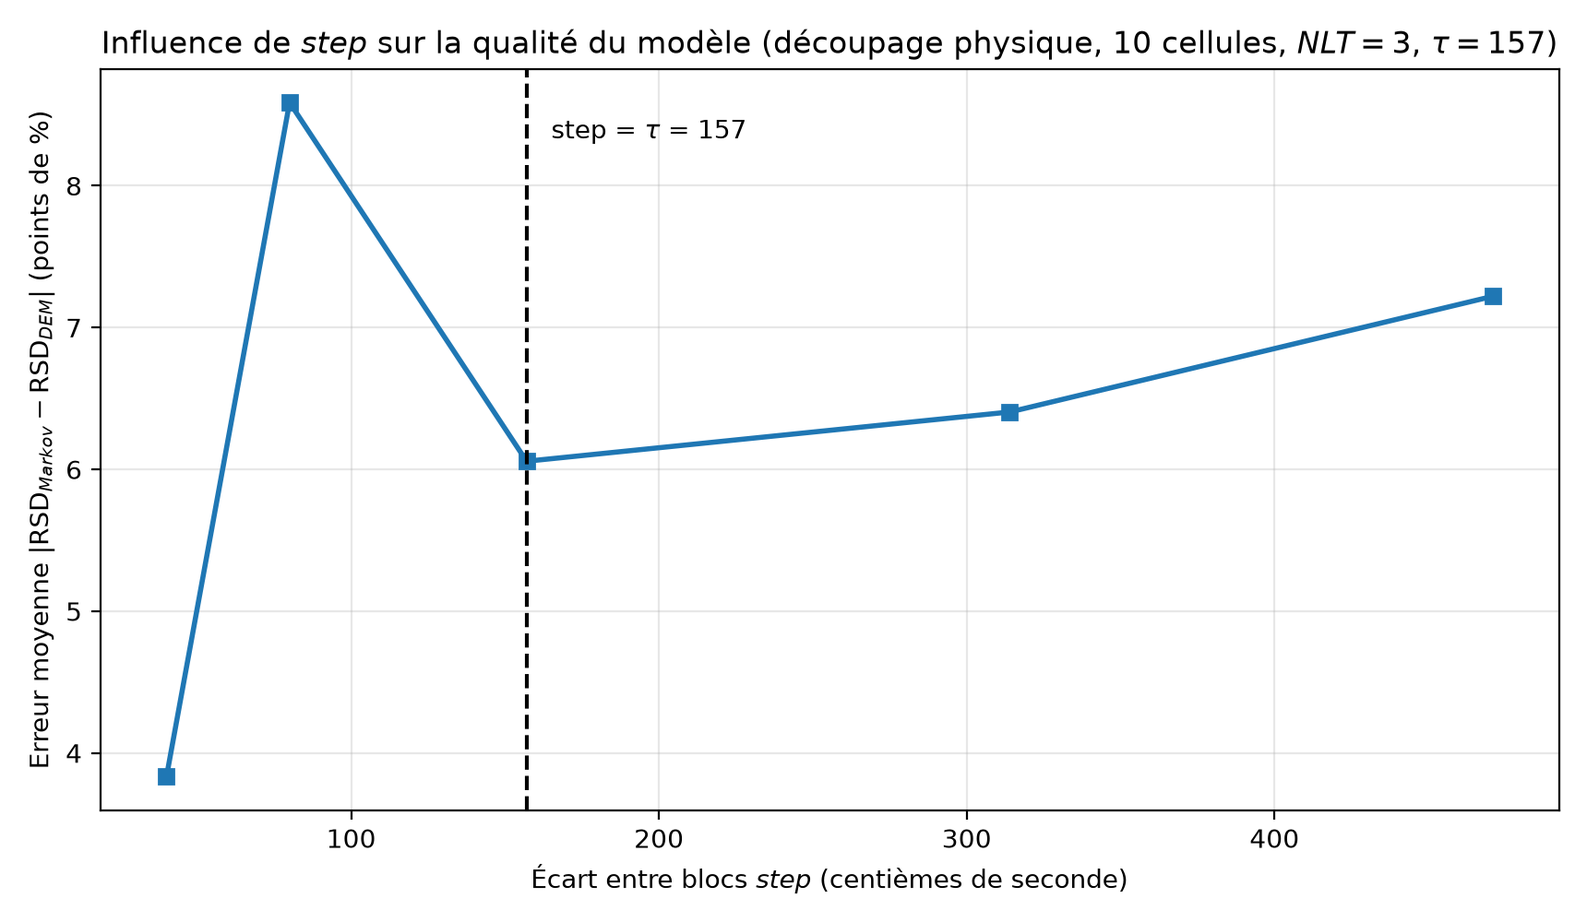
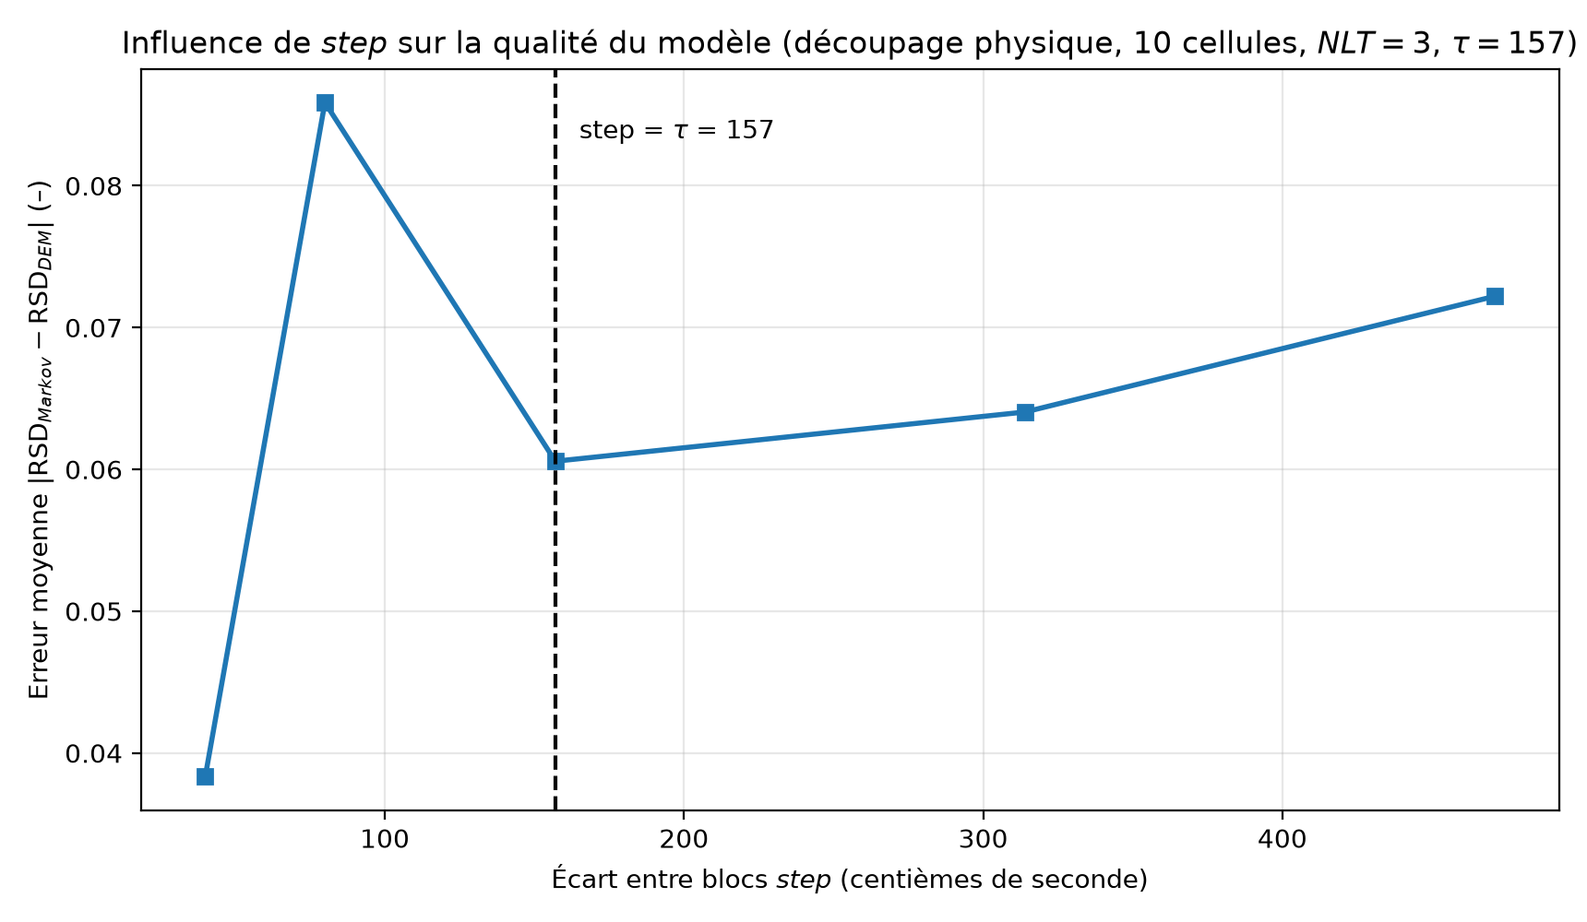
RSD exprimé en valeur adimensionnelle (nombre) au lieu de pourcentage : toutes les figures régénérées via la chaîne complète (extract_compact -> schémas -> études), textes et tableaux du rapport mis à jour

diff --git a/template-rapport-stage/main.tex b/template-rapport-stage/main.tex
@@ -755,7 +755,7 @@ Les matrices de transition construites par espèce pour un découpage cylindriqu
   \label{fig:matrice_cylindrique}
 \end{figure}
 
-La confrontation de la prédiction markovienne à la référence DEM (figure~\ref{fig:rsd_cylindrique}) révèle toutefois la limite de ce maillage pour l'étude de la ségrégation : le RSD de la teneur en petites particules prédit par la chaîne homogène se fige dès les premiers pas autour de sa valeur de point fixe ($\approx 49\,\%$), et la chaîne inhomogène, si elle réintroduit une légère variabilité en début de prédiction, converge elle aussi vers un palier ($\approx 53\,\%$) : aucune des deux ne restitue le niveau moyen élevé ni les larges fluctuations du RSD DEM (60 à 100\,\%). La raison est géométrique : les cellules cylindriques, solidaires de la symétrie de révolution, tournent « avec » l'écoulement moyen et ne séparent ni la zone active de la zone passive, ni les zones enrichies des zones appauvries en petites particules --- l'information de ségrégation est moyennée à l'intérieur de chaque cellule, et la projection markovienne lisse d'autant plus vite les contrastes résiduels. Ce constat, quantifié à la section~\ref{subsec:comparaison_methodes}, illustre que le respect de la géométrie de l'enceinte ne suffit pas : c'est l'adéquation du maillage à la structure de l'écoulement qui gouverne la qualité du modèle.
+La confrontation de la prédiction markovienne à la référence DEM (figure~\ref{fig:rsd_cylindrique}) révèle toutefois la limite de ce maillage pour l'étude de la ségrégation : le RSD de la teneur en petites particules prédit par la chaîne homogène se fige dès les premiers pas autour de sa valeur de point fixe ($\approx 0{,}49$), et la chaîne inhomogène, si elle réintroduit une légère variabilité en début de prédiction, converge elle aussi vers un palier ($\approx 0{,}53$) : aucune des deux ne restitue le niveau moyen élevé ni les larges fluctuations du RSD DEM (0{,}6 à 1{,}0). La raison est géométrique : les cellules cylindriques, solidaires de la symétrie de révolution, tournent « avec » l'écoulement moyen et ne séparent ni la zone active de la zone passive, ni les zones enrichies des zones appauvries en petites particules --- l'information de ségrégation est moyennée à l'intérieur de chaque cellule, et la projection markovienne lisse d'autant plus vite les contrastes résiduels. Ce constat, quantifié à la section~\ref{subsec:comparaison_methodes}, illustre que le respect de la géométrie de l'enceinte ne suffit pas : c'est l'adéquation du maillage à la structure de l'écoulement qui gouverne la qualité du modèle.
 
 \begin{figure}[H]
   \centering
@@ -845,7 +845,7 @@ En intégrant la norme de la vitesse dans le critère de partitionnement, les ce
 \subsubsection{Comparaison des méthodes}
 \label{subsec:comparaison_methodes}
 
-La figure~\ref{fig:comparaison_methodes_rsd} confronte, pour les quatre méthodes de découpage à \textbf{nombre de cellules identique} (10 cellules chacune : cartésien $5 \times 2 \times 1$, cylindrique $n_r = 2$, $n_\theta = 5$, Voronoï et physique $K = 10$) et à paramètres d'apprentissage identiques ($\tau = 157$, deux blocs), le RSD de la teneur en petites particules prédit par la chaîne homogène à la référence DEM. Cette égalité de résolution garantit que les écarts observés proviennent bien de la \textit{forme} des cellules --- c'est-à-dire de la méthode de découpage --- et non d'une différence de finesse de maillage, chaque cellule contenant en moyenne une centaine de particules dans les quatre cas. L'écart moyen $|\mathrm{RSD}_{\text{Markov}} - \mathrm{RSD}_{\text{DEM}}|$ sur toute la fenêtre de prédiction est reporté dans chaque cadran et synthétisé au tableau~\ref{tab:ecart_rsd_methodes}. La hiérarchie est nette : le découpage physique (6,4 points d'écart) et le découpage de Voronoï (10,2 points) suivent correctement le niveau d'homogénéisation atteint par la DEM, tandis que les maillages géométriques --- cartésien (21,4 points) et cylindrique (26,7 points) --- s'en écartent durablement, leurs cellules moyennant des zones de dynamiques hétérogènes.
+La figure~\ref{fig:comparaison_methodes_rsd} confronte, pour les quatre méthodes de découpage à \textbf{nombre de cellules identique} (10 cellules chacune : cartésien $5 \times 2 \times 1$, cylindrique $n_r = 2$, $n_\theta = 5$, Voronoï et physique $K = 10$) et à paramètres d'apprentissage identiques ($\tau = 157$, deux blocs), le RSD de la teneur en petites particules prédit par la chaîne homogène à la référence DEM. Cette égalité de résolution garantit que les écarts observés proviennent bien de la \textit{forme} des cellules --- c'est-à-dire de la méthode de découpage --- et non d'une différence de finesse de maillage, chaque cellule contenant en moyenne une centaine de particules dans les quatre cas. L'écart moyen $|\mathrm{RSD}_{\text{Markov}} - \mathrm{RSD}_{\text{DEM}}|$ sur toute la fenêtre de prédiction est reporté dans chaque cadran et synthétisé au tableau~\ref{tab:ecart_rsd_methodes}. La hiérarchie est nette : le découpage physique (écart moyen de 0{,}064) et le découpage de Voronoï (0{,}102) suivent correctement le niveau d'homogénéisation atteint par la DEM, tandis que les maillages géométriques --- cartésien (0{,}214) et cylindrique (0{,}267) --- s'en écartent durablement, leurs cellules moyennant des zones de dynamiques hétérogènes.
 
 \begin{figure}[H]
   \centering
@@ -856,13 +856,13 @@ La figure~\ref{fig:comparaison_methodes_rsd} confronte, pour les quatre méthode
 
 \begin{table}[H]
   \centering
-  \caption{Écart moyen $|\mathrm{RSD}_{\text{Markov}} - \mathrm{RSD}_{\text{DEM}}|$ (en points de \%) sur la fenêtre de prédiction, par méthode de découpage à nombre de cellules identique (10 cellules, chaîne homogène, $\tau = 157$).}
+  \caption{Écart moyen $|\mathrm{RSD}_{\text{Markov}} - \mathrm{RSD}_{\text{DEM}}|$ (adimensionnel) sur la fenêtre de prédiction, par méthode de découpage à nombre de cellules identique (10 cellules, chaîne homogène, $\tau = 157$).}
   \label{tab:ecart_rsd_methodes}
   \begin{tabular}{lcccc}
     \toprule
     & Cartésien & Cylindrique & Voronoï & Physique\\
     \midrule
-    Écart moyen (pts) & 21{,}4 & 26{,}7 & 10{,}2 & \textbf{6{,}4}\\
+    Écart moyen (--) & 0{,}214 & 0{,}267 & 0{,}102 & \textbf{0{,}064}\\
     \bottomrule
   \end{tabular}
 \end{table}
@@ -952,7 +952,7 @@ Ce mémoire a proposé et évalué une modélisation stochastique par chaînes d
 
 \begin{itemize}
   \item La construction de matrices de transition distinctes par espèce met en évidence des dynamiques contrastées entre petites et grandes particules.
-  \item Le choix de la discrétisation spatiale conditionne fortement la fidélité du modèle : à nombre de cellules identique, les maillages statistiques (Voronoï, physique) surpassent nettement les maillages géométriques en termes d'erreur de prédiction (6,4 et 10,2 points d'écart de RSD contre 21,4 pour le cartésien et 26,7 pour le cylindrique) ; le cas cylindrique montre que le respect de la géométrie de l'enceinte ne garantit pas la pertinence du maillage vis-à-vis de la ségrégation.
+  \item Le choix de la discrétisation spatiale conditionne fortement la fidélité du modèle : à nombre de cellules identique, les maillages statistiques (Voronoï, physique) surpassent nettement les maillages géométriques en termes d'erreur de prédiction (écarts moyens de RSD de 0{,}064 et 0{,}102 contre 0{,}214 pour le cartésien et 0{,}267 pour le cylindrique) ; le cas cylindrique montre que le respect de la géométrie de l'enceinte ne garantit pas la pertinence du maillage vis-à-vis de la ségrégation.
   \item Un vecteur d'état fondé sur la teneur locale en petites particules discrimine la ségrégation bien mieux qu'un simple comptage.
   \item Les chaînes inhomogènes, en actualisant les probabilités à chaque pas, suivent plus fidèlement l'évolution DEM que les chaînes homogènes, en particulier durant les régimes transitoires.
 \end{itemize}
@@ -1039,7 +1039,7 @@ Ce choix répond à un double impératif. D'une part, $\tau$ doit être suffisam
 
 Le paramètre $NLT$ contrôle le nombre de blocs d'apprentissage sur lesquels les probabilités de transition sont observées, puis moyennées (chaîne homogène) ou conservées séparément (chaîne inhomogène).
 
-L'étude de sensibilité menée sur les données DEM (figure~\ref{fig:etude_nlt_courbe}) balaie $NLT$ de 1 à 18 (découpage physique, 10 cellules, $\tau = step = 157$) et mesure pour chaque valeur l'erreur moyenne $|\mathrm{RSD}_{\text{Markov}} - \mathrm{RSD}_{\text{DEM}}|$ sur toute la fenêtre de prédiction. Deux régimes apparaissent : pour les petites valeurs ($NLT = 2$ à $5$), l'erreur fluctue entre 6 et 6,6 points --- chaque bloc supplémentaire modifie sensiblement la matrice moyenne, signe que la statistique n'est pas encore stabilisée --- puis, à partir de $NLT \gtrsim 8$, l'erreur décroît de façon monotone (5,6 points à $NLT = 8$, 4,7 points à $NLT = 18$) : la moyenne sur de nombreux blocs gomme le bruit statistique de l'apprentissage et la matrice converge vers la dynamique moyenne du régime permanent. On note que $NLT = 1$ peut ponctuellement donner une erreur faible : la matrice épouse alors la configuration particulière de son unique tour d'apprentissage, mais sans garantie de robustesse --- ce résultat dépend fortement du tour choisi, comme le confirme la sensibilité au paramètre $start$ (annexe~\ref{annexe:start}).
+L'étude de sensibilité menée sur les données DEM (figure~\ref{fig:etude_nlt_courbe}) balaie $NLT$ de 1 à 18 (découpage physique, 10 cellules, $\tau = step = 157$) et mesure pour chaque valeur l'erreur moyenne $|\mathrm{RSD}_{\text{Markov}} - \mathrm{RSD}_{\text{DEM}}|$ sur toute la fenêtre de prédiction. Deux régimes apparaissent : pour les petites valeurs ($NLT = 2$ à $5$), l'erreur fluctue entre 0{,}060 et 0{,}066 --- chaque bloc supplémentaire modifie sensiblement la matrice moyenne, signe que la statistique n'est pas encore stabilisée --- puis, à partir de $NLT \gtrsim 8$, l'erreur décroît de façon monotone (0{,}056 à $NLT = 8$, 0{,}047 à $NLT = 18$) : la moyenne sur de nombreux blocs gomme le bruit statistique de l'apprentissage et la matrice converge vers la dynamique moyenne du régime permanent. On note que $NLT = 1$ peut ponctuellement donner une erreur faible : la matrice épouse alors la configuration particulière de son unique tour d'apprentissage, mais sans garantie de robustesse --- ce résultat dépend fortement du tour choisi, comme le confirme la sensibilité au paramètre $start$ (annexe~\ref{annexe:start}).
 
 \begin{figure}[H]
   \centering
@@ -1092,7 +1092,7 @@ En contrepartie, augmenter $NLT$ allonge la fenêtre temporelle mobilisée par l
 \subsection{Choix de l'instant de départ \texorpdfstring{$start = 157$}{start = 157}}
 \label{annexe:start}
 
-Le paramètre $start$ fixe le premier instant DEM utilisé pour la phase d'apprentissage --- et, par voie de conséquence, l'instant initial de la prédiction. Le début de simulation correspond au régime transitoire de mise en mouvement du lit. La figure~\ref{fig:etude_start_rsd}, calculée sur les données DEM, montre le RSD de la teneur en petites particules durant les 12 premières secondes pour les quatre méthodes de découpage : quelle que soit la méthode, le RSD part de valeurs très élevées (90 à 110 \%, configuration initiale séparée), culmine durant la mise en mouvement du lit (jusqu'à 120 \% pour les maillages géométriques), puis amorce sa décroissance vers le palier du régime établi. La ligne verticale $start = 157$ --- un tour de tambour --- marque la fin de cette phase transitoire : au-delà, la décroissance du RSD est engagée pour les quatre découpages et les probabilités de transition observées deviennent représentatives du mélange établi. Apprendre les probabilités sur la zone grisée (régime transitoire) biaiserait la matrice, qui encoderait une dynamique de démarrage non représentative. Le tableau~\ref{tab:etude_start_rsd} donne les valeurs du RSD à quelques instants clefs.
+Le paramètre $start$ fixe le premier instant DEM utilisé pour la phase d'apprentissage --- et, par voie de conséquence, l'instant initial de la prédiction. Le début de simulation correspond au régime transitoire de mise en mouvement du lit. La figure~\ref{fig:etude_start_rsd}, calculée sur les données DEM, montre le RSD de la teneur en petites particules durant les 12 premières secondes pour les quatre méthodes de découpage : quelle que soit la méthode, le RSD part de valeurs très élevées (0{,}9 à 1{,}1, configuration initiale séparée), culmine durant la mise en mouvement du lit (jusqu'à 1{,}2 pour les maillages géométriques), puis amorce sa décroissance vers le palier du régime établi. La ligne verticale $start = 157$ --- un tour de tambour --- marque la fin de cette phase transitoire : au-delà, la décroissance du RSD est engagée pour les quatre découpages et les probabilités de transition observées deviennent représentatives du mélange établi. Apprendre les probabilités sur la zone grisée (régime transitoire) biaiserait la matrice, qui encoderait une dynamique de démarrage non représentative. Le tableau~\ref{tab:etude_start_rsd} donne les valeurs du RSD à quelques instants clefs.
 
 \begin{figure}[H]
   \centering
@@ -1103,16 +1103,16 @@ Le paramètre $start$ fixe le premier instant DEM utilisé pour la phase d'appre
 
 \begin{table}[H]
   \centering
-  \caption{RSD DEM de la teneur en petites particules (\%) à quelques instants (centièmes de seconde), par méthode de découpage : le régime transitoire ($t < 157$) présente des valeurs hautes et erratiques ; la décroissance s'installe au-delà.}
+  \caption{RSD DEM de la teneur en petites particules (adimensionnel) à quelques instants (centièmes de seconde), par méthode de découpage : le régime transitoire ($t < 157$) présente des valeurs hautes et erratiques ; la décroissance s'installe au-delà.}
   \label{tab:etude_start_rsd}
   \begin{tabular}{lccccccc}
     \toprule
     $t$ (cs) & 0 & 50 & 100 & \textbf{157} & 300 & 600 & 1000\\
     \midrule
-    Cartésien   & 87{,}2 & 101{,}0 & 87{,}7 & \textbf{65{,}7} & 110{,}8 & 36{,}0 & 20{,}8\\
-    Cylindrique & 107{,}3 & 96{,}3 & 119{,}8 & \textbf{66{,}0} & 65{,}7 & 88{,}9 & 76{,}2\\
-    Voronoï     & 62{,}1 & 89{,}5 & 29{,}7  & \textbf{61{,}7} & 23{,}9 &  9{,}1 & 19{,}6\\
-    Physique    & 107{,}1 & 90{,}4 & 88{,}6 & \textbf{68{,}3} & 31{,}6 & 15{,}1 & 12{,}3\\
+    Cartésien   & 0{,}872 & 1{,}010 & 0{,}877 & \textbf{0{,}657} & 1{,}108 & 0{,}360 & 0{,}208\\
+    Cylindrique & 1{,}073 & 0{,}963 & 1{,}198 & \textbf{0{,}660} & 0{,}657 & 0{,}889 & 0{,}762\\
+    Voronoï     & 0{,}621 & 0{,}895 & 0{,}297 & \textbf{0{,}617} & 0{,}239 & 0{,}091 & 0{,}196\\
+    Physique    & 1{,}071 & 0{,}904 & 0{,}886 & \textbf{0{,}683} & 0{,}316 & 0{,}151 & 0{,}123\\
     \bottomrule
   \end{tabular}
 \end{table}
@@ -1174,7 +1174,7 @@ Lorsque plusieurs blocs d'apprentissage sont utilisés ($NLT > 1$), le paramètr
   \item $step = \tau = 157$ fait se succéder les blocs de manière contiguë et sans recouvrement : chaque bloc correspond exactement à un tour de tambour supplémentaire, chaque transition observée est comptée une seule fois, et la fenêtre d'apprentissage reste compacte.
 \end{itemize}
 
-L'étude de sensibilité menée sur les données DEM (figure~\ref{fig:etude_step_courbe}) balaie $step$ de 40 à 471 (découpage physique, 10 cellules, $NLT = 3$, $\tau = 157$) et mesure l'erreur moyenne $|\mathrm{RSD}_{\text{Markov}} - \mathrm{RSD}_{\text{DEM}}|$. On observe que les valeurs intermédiaires non commensurables avec la période du tambour ($step = 80$) dégradent l'erreur (8,6 points) : les blocs échantillonnent alors des phases de rotation différentes, et leur moyenne mélange des configurations angulaires hétérogènes. Les valeurs commensurables avec la période ($step = 157$, $314$) ramènent l'erreur autour de 6 points, chaque bloc couvrant un nombre entier de tours ; au-delà ($step = 471$), l'erreur remonte, la fenêtre totale d'apprentissage s'étirant sans gain statistique. La petite valeur $step = 40$ donne l'erreur la plus basse sur ce cas particulier, mais au prix d'un recouvrement partiel des fenêtres d'observation des blocs, qui corrèle les blocs entre eux et fragilise l'interprétation de la moyenne --- et, pour les chaînes inhomogènes, désynchronise les matrices de la période physique.
+L'étude de sensibilité menée sur les données DEM (figure~\ref{fig:etude_step_courbe}) balaie $step$ de 40 à 471 (découpage physique, 10 cellules, $NLT = 3$, $\tau = 157$) et mesure l'erreur moyenne $|\mathrm{RSD}_{\text{Markov}} - \mathrm{RSD}_{\text{DEM}}|$. On observe que les valeurs intermédiaires non commensurables avec la période du tambour ($step = 80$) dégradent l'erreur (0{,}086) : les blocs échantillonnent alors des phases de rotation différentes, et leur moyenne mélange des configurations angulaires hétérogènes. Les valeurs commensurables avec la période ($step = 157$, $314$) ramènent l'erreur autour de 0{,}06, chaque bloc couvrant un nombre entier de tours ; au-delà ($step = 471$), l'erreur remonte, la fenêtre totale d'apprentissage s'étirant sans gain statistique. La petite valeur $step = 40$ donne l'erreur la plus basse sur ce cas particulier, mais au prix d'un recouvrement partiel des fenêtres d'observation des blocs, qui corrèle les blocs entre eux et fragilise l'interprétation de la moyenne --- et, pour les chaînes inhomogènes, désynchronise les matrices de la période physique.
 
 \begin{figure}[H]
   \centering

diff --git a/postprocessing/etudes_rapport.py b/postprocessing/etudes_rapport.py
@@ -351,7 +351,7 @@ def etude_start(states, small_p):
     fig, ax = plt.subplots(figsize=(10, 5.6))
     for name, (st, n) in states.items():
         r = dem_rsd_series(st, small_p, n, times)
-        ax.plot(times, 100 * r, label=name, color=COLORS[name], lw=1.6)
+        ax.plot(times, r, label=name, color=COLORS[name], lw=1.6)
     ax.axvline(START, color="k", ls="--", lw=2)
     ax.text(START + 12, ax.get_ylim()[1] * 0.92,
             "start = 157\n(un tour de tambour)", fontsize=10)
@@ -359,7 +359,7 @@ def etude_start(states, small_p):
     ax.text(START / 2, ax.get_ylim()[1] * 0.05, "régime\ntransitoire",
             ha="center", fontsize=9, color="0.35")
     ax.set_xlabel("Temps (centièmes de seconde)")
-    ax.set_ylabel("RSD de la teneur en petites particules (%)")
+    ax.set_ylabel("RSD de la teneur en petites particules (–)")
     ax.set_title(
         "Détermination du début du régime permanent : RSD DEM pour les "
         "quatre méthodes de découpage"
@@ -379,7 +379,7 @@ def etude_start(states, small_p):
     with open(FIGDIR / "etude_start_table.txt", "w") as f:
         f.write("t(cs)   " + "  ".join(f"{t:>6d}" for t in probe) + "\n")
         for name, r in rows:
-            f.write(f"{name:<12}" + "  ".join(f"{100*x:6.1f}" for x in r) + "\n")
+            f.write(f"{name:<12}" + "  ".join(f"{x:6.3f}" for x in r) + "\n")
     print("start ok")
 
 
@@ -390,7 +390,7 @@ def etude_tau(states, small_p):
     r_dem = dem_rsd_series(st, small_p, n, times)
 
     fig, ax = plt.subplots(figsize=(10, 5.6))
-    ax.plot(times / 100, 100 * r_dem, "k.-", ms=3, lw=1, label="RSD DEM (réel)")
+    ax.plot(times / 100, r_dem, "k.-", ms=3, lw=1, label="RSD DEM (réel)")
     cmap = plt.get_cmap("viridis")
     taus = [10, 25, 50, 100, 157, 300, 500, 1000]
     for i, tau in enumerate(taus):
@@ -404,10 +404,10 @@ def etude_tau(states, small_p):
         r_mk = markov_rsd_series(P_small, P_s, S0_small, S0_all, n_steps)
         t_mk = (START + np.arange(n_steps + 1) * tau) / 100
         lw = 2.6 if tau == TAU else 1.4
-        ax.plot(t_mk, 100 * r_mk, color=cmap(i / len(taus)), lw=lw,
+        ax.plot(t_mk, r_mk, color=cmap(i / len(taus)), lw=lw,
                 label=f"Markov $\\tau$={tau}" + (" (retenu)" if tau == TAU else ""))
     ax.set_xlabel("Temps (s)")
-    ax.set_ylabel("RSD (%)")
+    ax.set_ylabel("RSD (–)")
     ax.set_title(
         "Influence du pas de temps de Markov $\\tau$ sur la cinétique prédite "
         "(découpage physique, 10 cellules, teneur en petites)"
@@ -433,7 +433,7 @@ def _erreur_pred(st, small_p, n, nlt, step, dt=8):
     times = times[times < N_T]
     r_dem = dem_rsd_series(st, small_p, n, times)
     m = min(len(r_mk), len(r_dem))
-    return np.mean(np.abs(r_mk[:m] - r_dem[:m])) * 100, nb
+    return np.mean(np.abs(r_mk[:m] - r_dem[:m])), nb
 
 
 def etude_nlt(states, small_p):
@@ -447,7 +447,7 @@ def etude_nlt(states, small_p):
     fig, ax = plt.subplots(figsize=(8.6, 5))
     ax.plot(nlts, errs, "o-", color="#d62728", lw=2)
     ax.set_xlabel("Nombre de blocs d'apprentissage $NLT$")
-    ax.set_ylabel(r"Erreur moyenne $|\mathrm{RSD}_{Markov} - \mathrm{RSD}_{DEM}|$ (points de %)")
+    ax.set_ylabel(r"Erreur moyenne $|\mathrm{RSD}_{Markov} - \mathrm{RSD}_{DEM}|$ (–)")
     ax.set_title(
         "Influence de $NLT$ sur la qualité du modèle "
         "(découpage physique, 10 cellules, $\\tau = step = 157$)"
@@ -472,7 +472,7 @@ def etude_step(states, small_p):
     ax.axvline(157, color="k", ls="--", lw=1.5)
     ax.text(165, max(errs) * 0.97, "step = $\\tau$ = 157", fontsize=10)
     ax.set_xlabel("Écart entre blocs $step$ (centièmes de seconde)")
-    ax.set_ylabel(r"Erreur moyenne $|\mathrm{RSD}_{Markov} - \mathrm{RSD}_{DEM}|$ (points de %)")
+    ax.set_ylabel(r"Erreur moyenne $|\mathrm{RSD}_{Markov} - \mathrm{RSD}_{DEM}|$ (–)")
     ax.set_title(
         "Influence de $step$ sur la qualité du modèle "
         "(découpage physique, 10 cellules, $NLT = 3$, $\\tau = 157$)"
@@ -522,13 +522,13 @@ def resultats_cylindrique(states, small_p):
     r_dem = dem_rsd_series(st, small_p, n, times_dem)
 
     fig, ax = plt.subplots(figsize=(10, 5.6))
-    ax.plot(times_dem / 100, 100 * r_dem, "k-", lw=1, alpha=0.7, label="DEM")
-    ax.plot(times_mk / 100, 100 * r_h, "o--", color="#1f77b4", ms=4,
+    ax.plot(times_dem / 100, r_dem, "k-", lw=1, alpha=0.7, label="DEM")
+    ax.plot(times_mk / 100, r_h, "o--", color="#1f77b4", ms=4,
             label="Markov homogène")
-    ax.plot(times_mk / 100, 100 * r_i, "s--", color="#d62728", ms=4,
+    ax.plot(times_mk / 100, r_i, "s--", color="#d62728", ms=4,
             label="Markov inhomogène")
     ax.set_xlabel("Temps (s)")
-    ax.set_ylabel("RSD de la teneur en petites particules (%)")
+    ax.set_ylabel("RSD de la teneur en petites particules (–)")
     ax.set_title("Découpage cylindrique : RSD DEM vs prédictions markoviennes")
     ax.legend()
     ax.grid(alpha=0.3)
@@ -556,18 +556,18 @@ def comparaison_methodes(states, small_p):
         r_dem_mk = dem_rsd_series(st, small_p, n,
                                   (START + np.arange(n_steps + 1) * TAU)
                                   .clip(max=N_T - 1))
-        err = np.mean(np.abs(r_mk - r_dem_mk)) * 100
+        err = np.mean(np.abs(r_mk - r_dem_mk))
         err_summary[name] = err
-        ax.plot(t_dem / 100, 100 * r_dem, "k-", lw=0.9, alpha=0.7, label="DEM")
-        ax.plot(t_mk, 100 * r_mk, "o--", color=COLORS[name], ms=4,
+        ax.plot(t_dem / 100, r_dem, "k-", lw=0.9, alpha=0.7, label="DEM")
+        ax.plot(t_mk, r_mk, "o--", color=COLORS[name], ms=4,
                 label="Markov homogène")
-        ax.set_title(f"{name} — écart moyen {err:.1f} pts")
+        ax.set_title(f"{name} — écart moyen {err:.3f}")
         ax.grid(alpha=0.3)
         ax.legend(fontsize=9)
     for ax in axes[-1]:
         ax.set_xlabel("Temps (s)")
     for ax in axes[:, 0]:
-        ax.set_ylabel("RSD teneur petites (%)")
+        ax.set_ylabel("RSD teneur petites (–)")
     fig.suptitle(
         "Influence de la méthode de découpage : RSD DEM vs prédiction "
         "markovienne homogène ($\\tau = 157$, 2 blocs d'apprentissage)"
@@ -577,7 +577,7 @@ def comparaison_methodes(states, small_p):
     plt.close(fig)
     with open(FIGDIR / "comparaison_methodes_table.txt", "w") as f:
         for k, v in err_summary.items():
-            f.write(f"{k:<12} {v:6.2f} pts\n")
+            f.write(f"{k:<12} {v:8.4f}\n")
     print("comparaison ok", err_summary)
 
 
